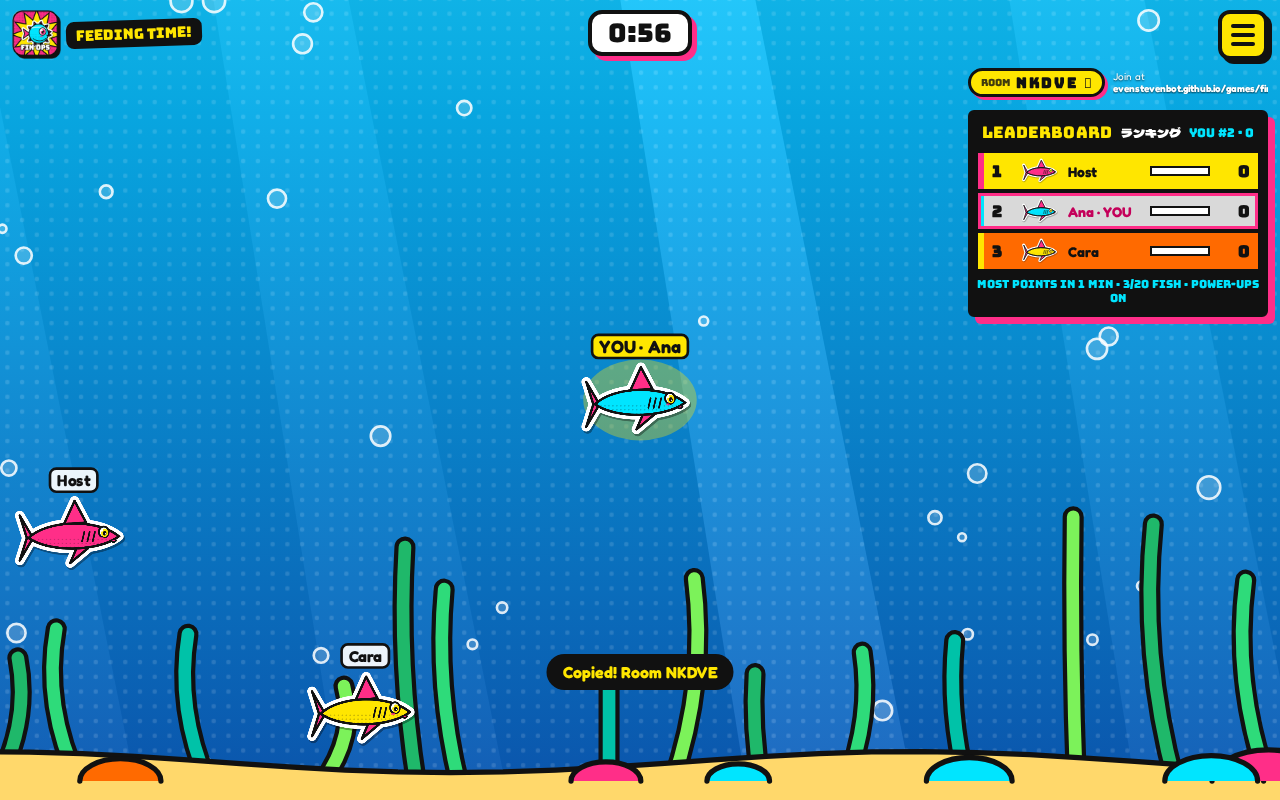
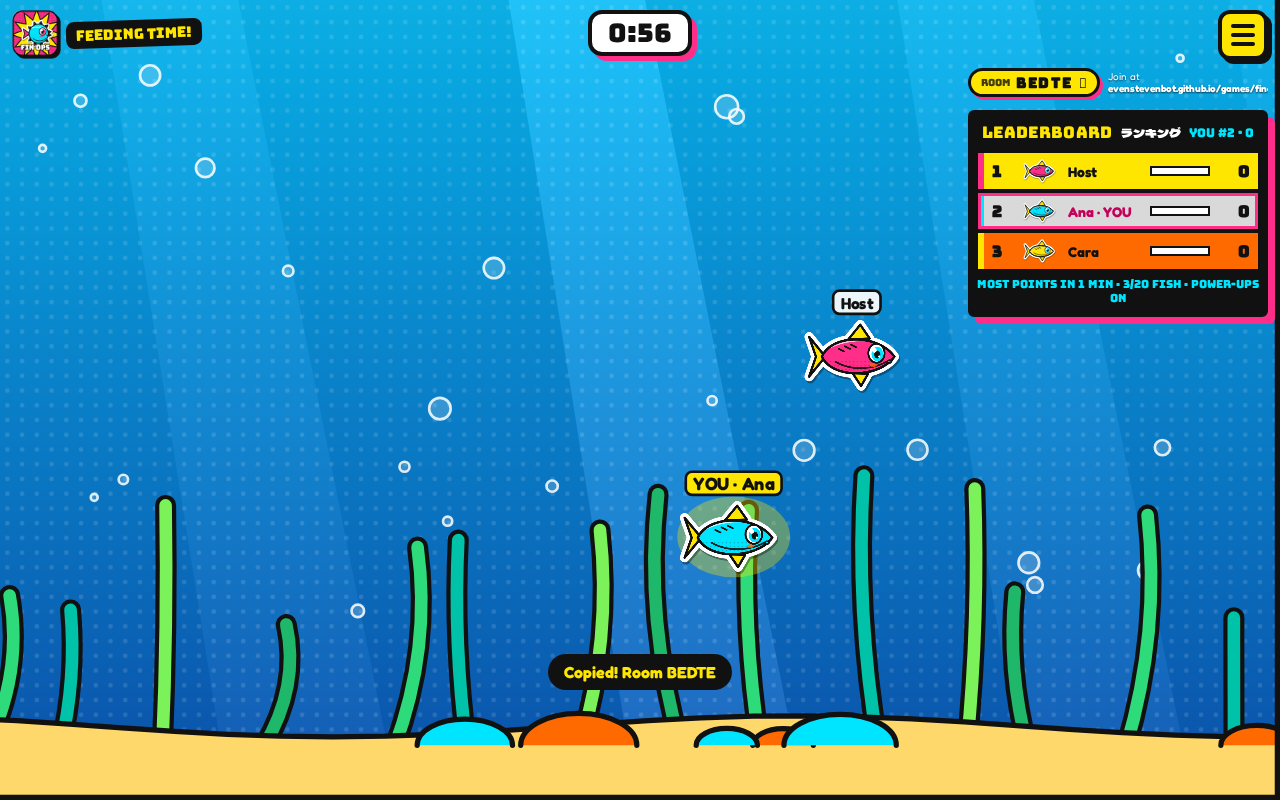
FinOps: host flake toggle (pink 1pt / gold 2pt, default pink) + fish no longer grow when eating

diff --git a/games/finops/app.js b/games/finops/app.js
@@ -18,7 +18,7 @@ const TICK_MS = 33, SNAP_EVERY = 2, INTERP_MAX = 150, INTERP_MIN = 50, HOST_INTE
 const FOOD_R = 9, PILL_R = 18;
 // flakes / second (scaled by player count). Round 2: 20% less food at every level (was 1.1 / 2.1 / 3.6).
 const FOOD_RATE = { low: 0.88, med: 1.68, high: 2.88 };
-const DEFAULTS = { mode: 'timer', min: 1, goal: 20, food: 'med', pw: true };
+const DEFAULTS = { mode: 'timer', min: 1, goal: 20, food: 'med', pw: true, fp: true, fg: false };
 // Magic pill power-up: one at a time, every 25-40 s at random; powered fish is 2x with metal jaws for up to 15 s.
 const PILL_GAP = [25000, 40000], PW_MS = 15000, PW_WARN = 3000;
 const NAME_KEY = 'finops-name', FISH_KEY = 'finops-fish';
@@ -231,7 +231,8 @@ const pillGap = () => rand(PILL_GAP[0], PILL_GAP[1]);
 function powerUp(p) { p.pw = Date.now() + PW_MS; p.size = p.base * SHARK_X; fxAll({ k: 'pill', pid: p.id }); }
 function powerDown(p, why) { if (!p.pw) return; p.pw = 0; p.size = p.base; fxAll({ k: 'unpw', pid: p.id, why }); }
 function spawnFood() {
-  const gold = Math.random() < 0.2;
+  const fp = H.set.fp !== false, fg = !!H.set.fg;
+  const gold = fg && (!fp || Math.random() < 0.2); // flake types the host enabled; total rate unchanged
   const fast = Math.random() < 0.3;
   H.foods.push({
     id: H.nextFood++, k: gold ? 2 : 1, x: rand(60, WORLD_W - 60), y: -10,
@@ -282,7 +283,7 @@ function hostTick() {
       if (f.fade > 0 && f.y > 0) for (const [p, m] of mouths) {
         if (inSuction(p, m, f)) {
           f.capd = true; f.cap = p.id; f.capAt = Date.now(); p.score += f.k; p.eats++; p.lastScore = Date.now();
-          p.base = Math.min(MAX_SIZE, p.base * GROW); p.size = p.base * (p.pw ? SHARK_X : 1);
+          // fish no longer grow when they eat (size stays at base; shark is base*SHARK_X)
           H.ev.push([f.id, p.id, Math.round(f.x), Math.round(f.y), f.k, H.tick]); break;
         }
       }
@@ -391,6 +392,7 @@ function hostSet(patch) {
   if (patch.dmin) s.min = clamp(s.min + patch.dmin, 1, 10);
   if (patch.dgoal) s.goal = clamp(s.goal + patch.dgoal * 5, 5, 100);
   if (patch.food && FOOD_RATE[patch.food]) s.food = patch.food;
+  if (patch.fl === 'p' || patch.fl === 'g') { const k = patch.fl === 'p' ? 'fp' : 'fg', o = patch.fl === 'p' ? 'fg' : 'fp'; const cur = k === 'fp' ? s.fp !== false : !!s.fg; if (!cur || (o === 'fp' ? s.fp !== false : !!s.fg)) s[k] = !cur; }
   if (patch.pw != null) { s.pw = !!patch.pw; if (!s.pw) { H.pill = null; for (const p of H.players.values()) powerDown(p, 'off'); } }
   bumpMeta();
 }
@@ -633,6 +635,8 @@ function renderMetaUI() {
   document.querySelectorAll('#foodSeg button').forEach((b) => { b.classList.toggle('on', b.dataset.food === set.food); b.disabled = !host; });
   const pwOn = set.pw !== false;
   document.querySelectorAll('#pwSeg button').forEach((b) => { b.classList.toggle('on', (b.dataset.pw === '1') === pwOn); b.disabled = !host; });
+  const flOn = { p: set.fp !== false, g: !!set.fg };
+  document.querySelectorAll('#flSeg button').forEach((b) => { b.classList.toggle('on', flOn[b.dataset.fl]); b.setAttribute('aria-pressed', flOn[b.dataset.fl]); b.disabled = !host; });
   $('#timerVal').textContent = set.min + ' min'; $('#goalVal').textContent = set.goal + ' pts';
   $('#timerStep').classList.toggle('dim', set.mode !== 'timer'); $('#goalStep').classList.toggle('dim', set.mode !== 'goal');
   document.querySelectorAll('.stepper button').forEach((b) => { b.disabled = !host; });
@@ -642,7 +646,7 @@ function renderMetaUI() {
   const inLobby = joined && m.ph === 'lobby';
   $('#lobbyBar').hidden = !inLobby;
   const pl = Object.entries(m.pl || {}); const ready = pl.filter(([, p]) => p[3]).length;
-  $('#readyCount').textContent = `${ready}/${pl.length} ready` + (host ? '' : ' · host starts the game') + ` · Power-ups ${set.pw !== false ? 'On ✨' : 'Off'}`;
+  $('#readyCount').textContent = `${ready}/${pl.length} ready` + (host ? '' : ' · host starts the game') + ` · Power-ups ${set.pw !== false ? 'On ✨' : 'Off'} · Flakes ${[set.fp !== false ? 'Pink 1pt' : '', set.fg ? 'Gold 2pt' : ''].filter(Boolean).join(' + ')}`;
   const me = m.pl && m.pl[myId]; readyLocal = !!(me && me[3]);
   $('#readyBtn').textContent = readyLocal ? 'Ready! ✓' : "I'm ready"; $('#readyBtn').classList.toggle('on', readyLocal);
   $('#startBtn').hidden = !host; $('#startBtn').classList.toggle('all-ready', pl.length > 0 && ready === pl.length);
@@ -956,7 +960,7 @@ function drawFish(p, foods, t, dt) {
   const m = V.meta.pl[p.id]; if (!m) return;
   const fv = fishView(p.id);
   // bouncy grow spring toward real size
-  if (fv.holdUntil && t >= fv.holdUntil) { fv.holdUntil = 0; fv.snap = t; fv.vs += 2.6; } // gulp, then grow
+  if (fv.holdUntil && t >= fv.holdUntil) { fv.holdUntil = 0; fv.snap = t; } // gulp (no growth)
   const sharkHeld = fv.holdShark && t < fv.holdShark; // stay a shark for a beat after the chomp, then morph back
   const target = sharkHeld ? fv.sharkSize : fv.holdUntil ? Math.min(p.size, fv.holdSize) : p.size;
   fv.vs += (target - fv.ds) * 160 * dt; fv.vs *= Math.exp(-9 * dt); fv.ds += fv.vs * dt;
@@ -1317,6 +1321,7 @@ document.addEventListener('pointerdown', (e) => { if (!$('#menu').hidden && !e.t
 document.addEventListener('keydown', (e) => { if (e.key === 'Escape' && !$('#menu').hidden) { closeMenu(); $('#menuBtn').focus(); } });
 document.querySelectorAll('#modeSeg button').forEach((b) => { b.onclick = () => hostSet({ mode: b.dataset.mode }); });
 document.querySelectorAll('#foodSeg button').forEach((b) => { b.onclick = () => hostSet({ food: b.dataset.food }); });
+document.querySelectorAll('#flSeg button').forEach((b) => { b.onclick = () => hostSet({ fl: b.dataset.fl }); });
 document.querySelectorAll('#pwSeg button').forEach((b) => { b.onclick = () => hostSet({ pw: b.dataset.pw === '1' }); });
 $('#timerStep').addEventListener('click', (e) => { const b = e.target.closest('button'); if (b) hostSet({ mode: 'timer', dmin: +b.dataset.d }); });
 $('#goalStep').addEventListener('click', (e) => { const b = e.target.closest('button'); if (b) hostSet({ mode: 'goal', dgoal: +b.dataset.d }); });

diff --git a/games/finops/index.html b/games/finops/index.html
@@ -113,6 +113,8 @@
     <div class="stepper" id="goalStep"><span>Goal</span><button data-d="-1" aria-label="Lower goal">−</button><b id="goalVal">20 pts</b><button data-d="1" aria-label="Higher goal">+</button></div>
     <div class="menu-h">Food quantity <span class="host-only">host only</span></div>
     <div class="seg" id="foodSeg"><button data-food="low">Low</button><button data-food="med">Medium</button><button data-food="high">High</button></div>
+    <div class="menu-h">Food flakes <span class="host-only">host only</span></div>
+    <div class="seg" id="flSeg"><button data-fl="p">🩷 Pink 1 pt</button><button data-fl="g">⭐ Gold 2 pt</button></div>
     <div class="menu-h">Power-ups <span class="host-only">host only</span></div>
     <div class="seg" id="pwSeg"><button data-pw="1">On</button><button data-pw="0">Off</button></div>
   </div>
